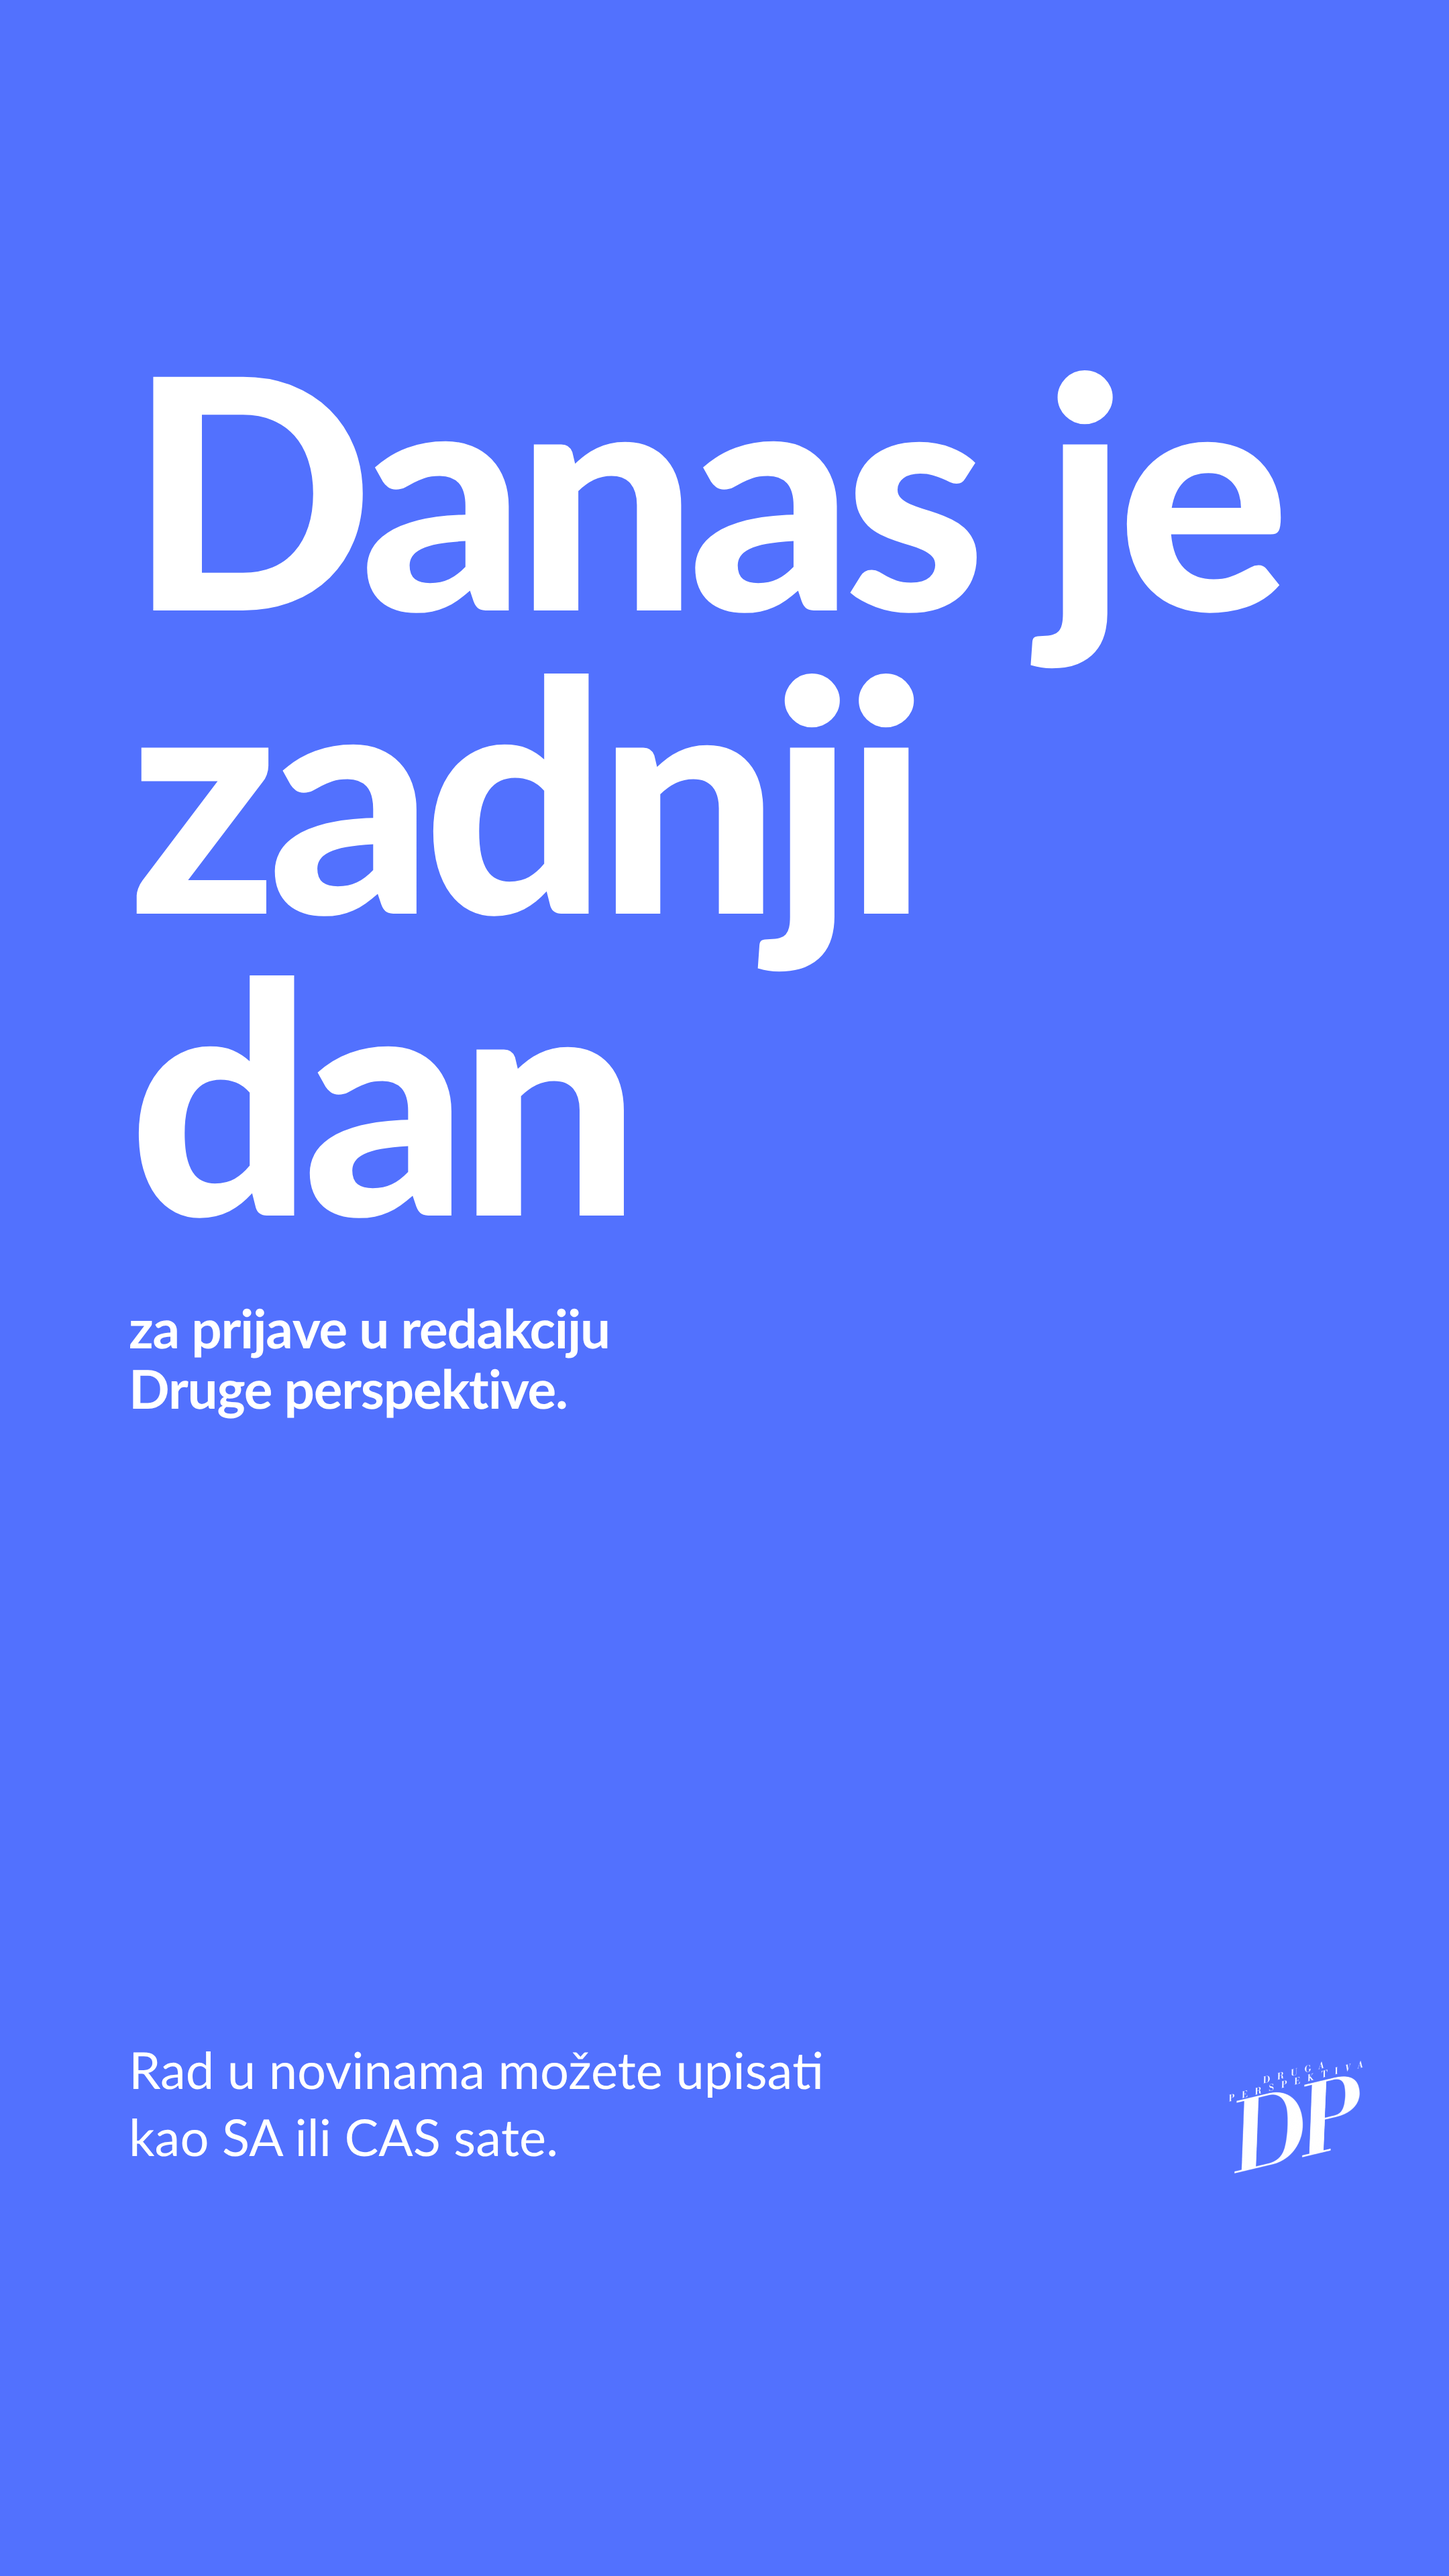
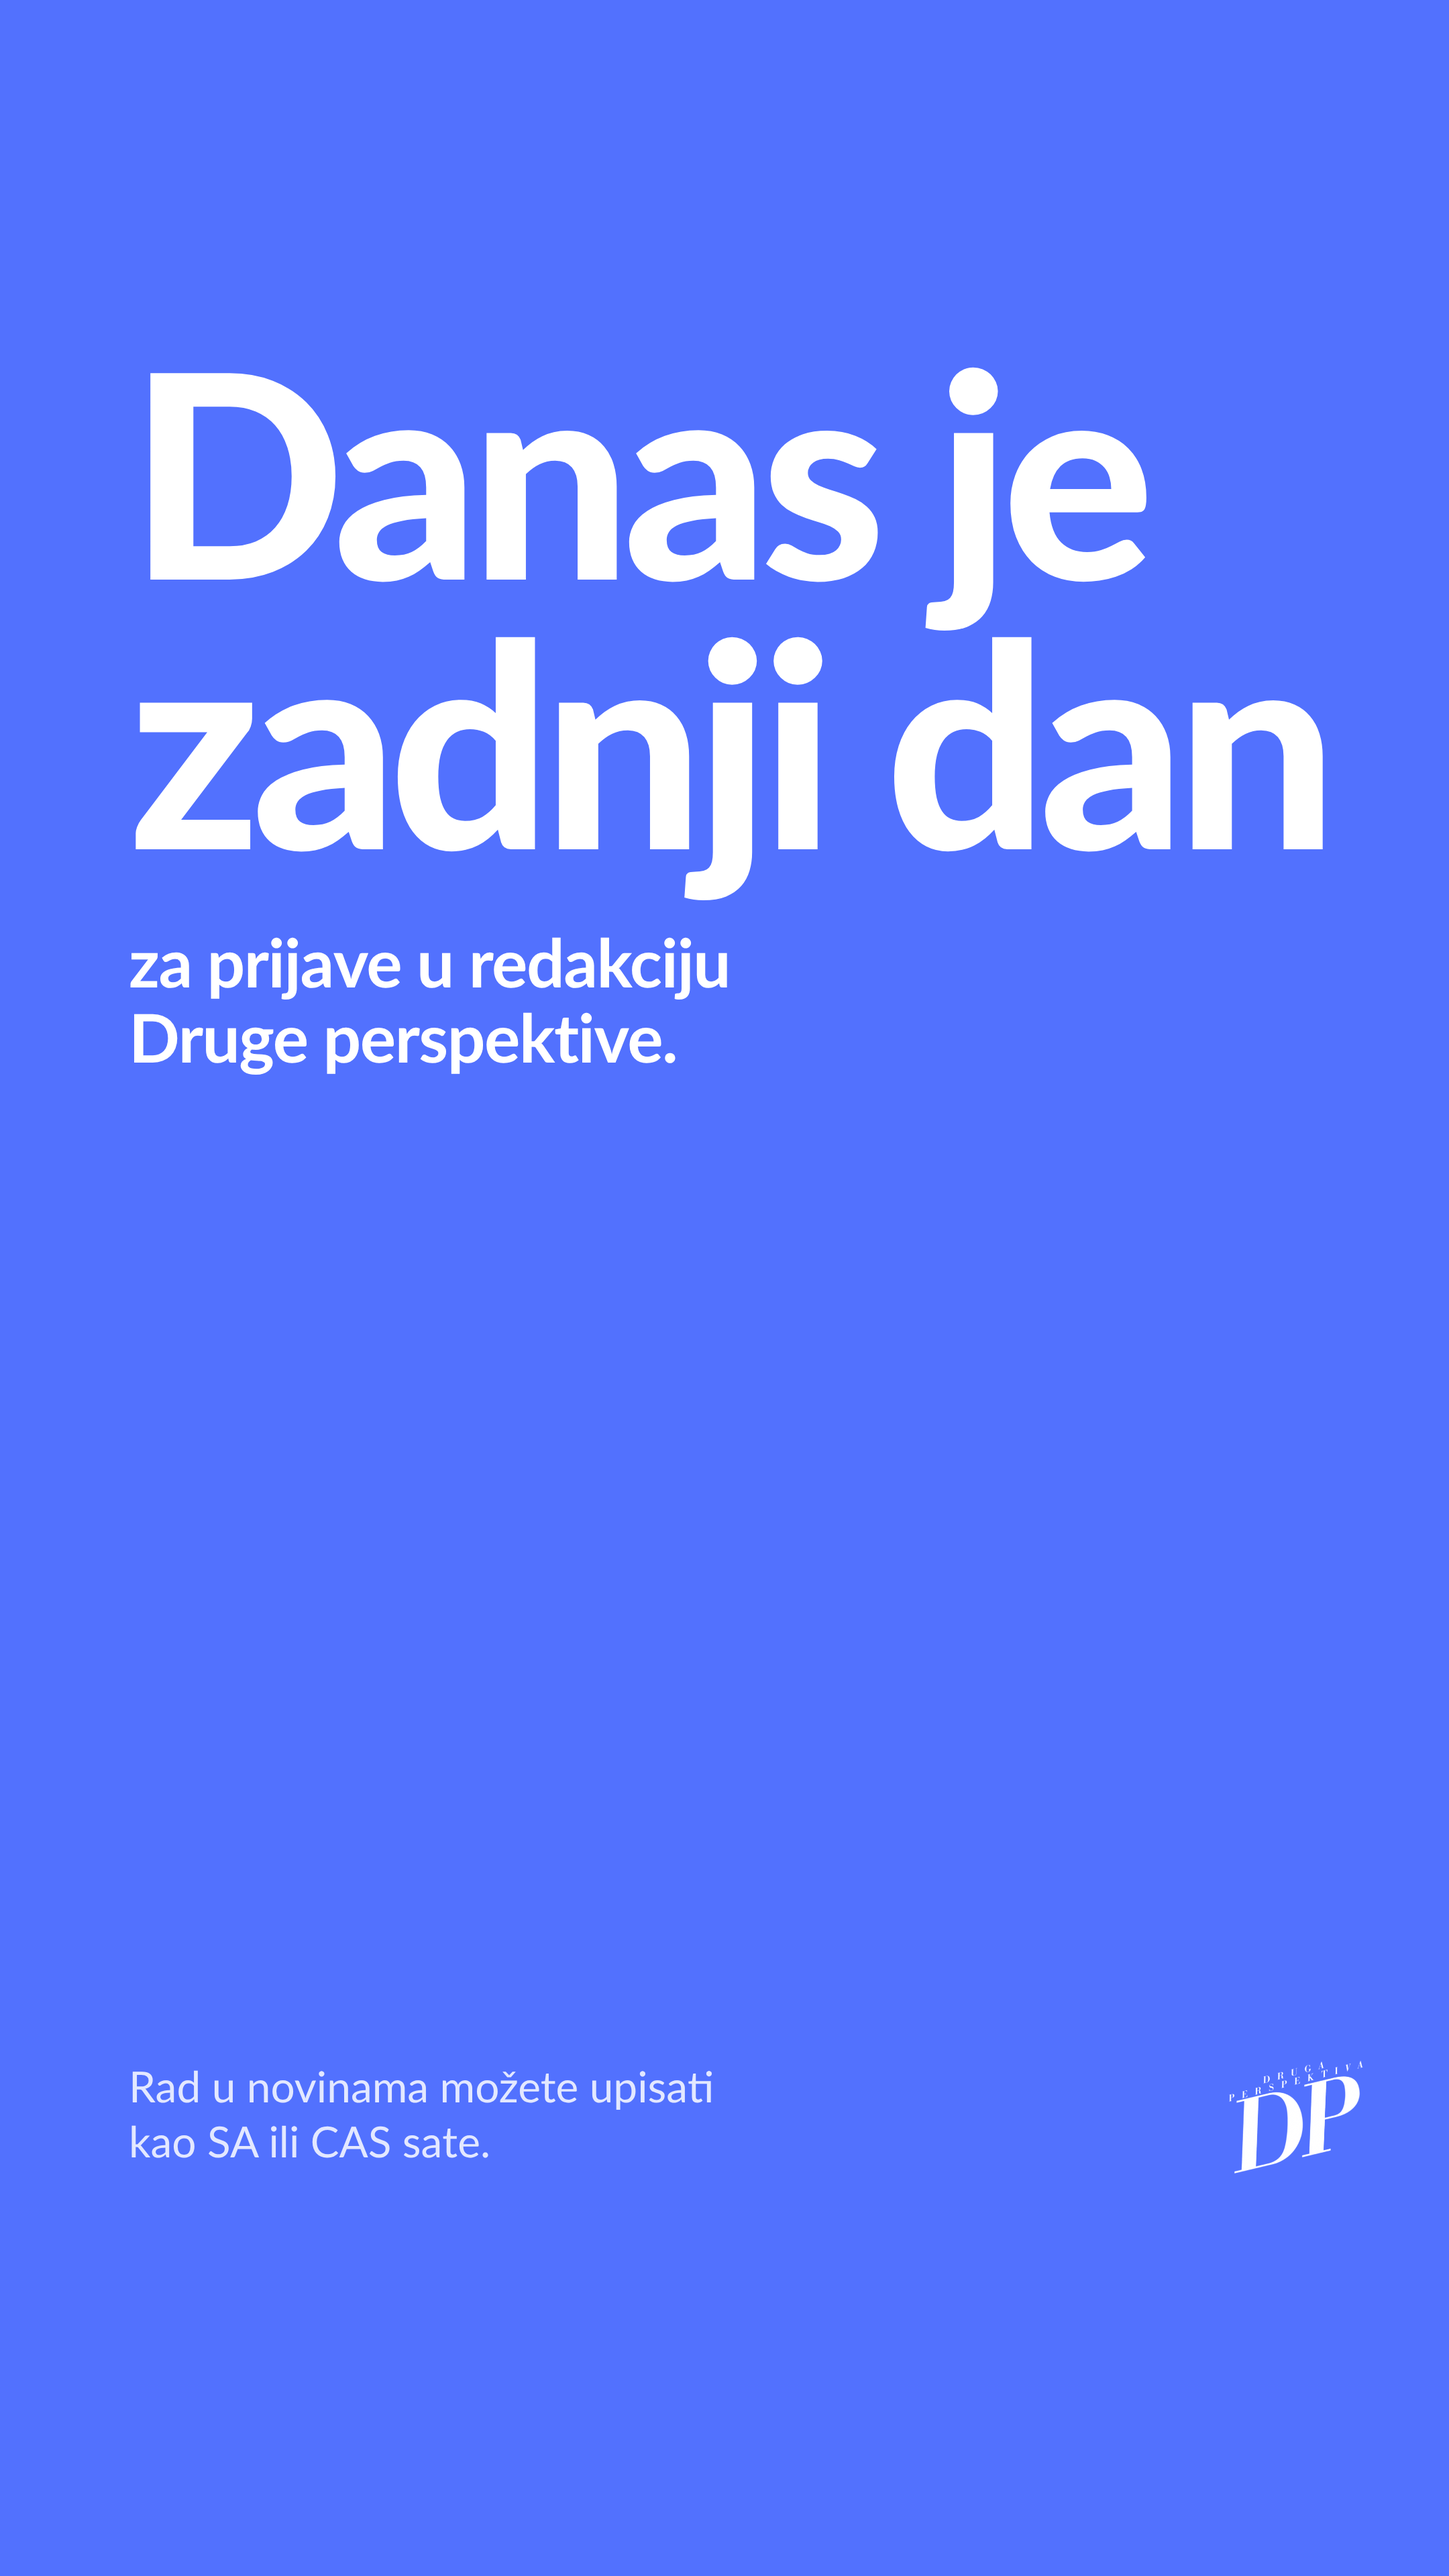
Prijave: naslov u dva reda, jasniji odnos veličina
Claude-Session: https://claude.ai/code/session_01LzMpRsfrg5uNj5HJ7UXVFE

Changed region(s): [[0.0931, 0.125, 0.9306, 0.5625], [0.0931, 0.7812, 0.5583, 0.8438]]

diff --git a/promo/prijave-redakcija/dizajn.html b/promo/prijave-redakcija/dizajn.html
@@ -76,19 +76,19 @@ body { background: #777; font-family: "Lato", sans-serif; color: #fff; padding: 
 
 .prijave { --m: 96px; background: var(--plava); }
 .prijave .vrh { position: absolute; left: var(--m); right: 64px; top: 250px; }
-.prijave .izjava { font-size: 240px; line-height: .94; letter-spacing: -0.03em; }
-.prijave .nastavak { margin-top: 44px; font-size: 40px; font-weight: 700; line-height: 1.12; letter-spacing: -0.015em; }
+.prijave .izjava { font-size: 212px; line-height: .95; letter-spacing: -0.03em; }
+.prijave .nastavak { margin-top: 40px; font-size: 50px; font-weight: 700; line-height: 1.12; letter-spacing: -0.015em; }
 .prijave .dno { position: absolute; left: var(--m); right: 200px; bottom: 300px; }
-.prijave .napomena { font-size: 38px; line-height: 1.3; color: #fff; }
+.prijave .napomena { font-size: 32px; line-height: 1.3; color: rgba(255,255,255,.84); }
 /* Samo za pregled: gdje ide Instagram stiker s linkom. */
-.stiker { position: absolute; left: var(--m); top: 1130px; background: #fff; color: var(--plava); font-weight: 700; font-size: 44px; padding: 22px 40px; border-radius: 20px; }
+.stiker { position: absolute; left: var(--m); top: 1000px; background: #fff; color: var(--plava); font-weight: 700; font-size: 44px; padding: 22px 40px; border-radius: 20px; }
 </style>
 </head>
 <body>
 
 <section class="slide story prijave">
 	<div class="vrh">
-		<h1 class="izjava">Danas je<br>zadnji<br>dan</h1>
+		<h1 class="izjava">Danas je<br>zadnji dan</h1>
 		<p class="nastavak">za prijave u redakciju<br>Druge perspektive.</p>
 	</div>
 	<div class="dno">
@@ -99,7 +99,7 @@ body { background: #777; font-family: "Lato", sans-serif; color: #fff; padding: 
 
 <section class="slide story prijave">
 	<div class="vrh">
-		<h1 class="izjava">Danas je<br>zadnji<br>dan</h1>
+		<h1 class="izjava">Danas je<br>zadnji dan</h1>
 		<p class="nastavak">za prijave u redakciju<br>Druge perspektive.</p>
 	</div>
 	<div class="stiker">Prijavi se</div>
